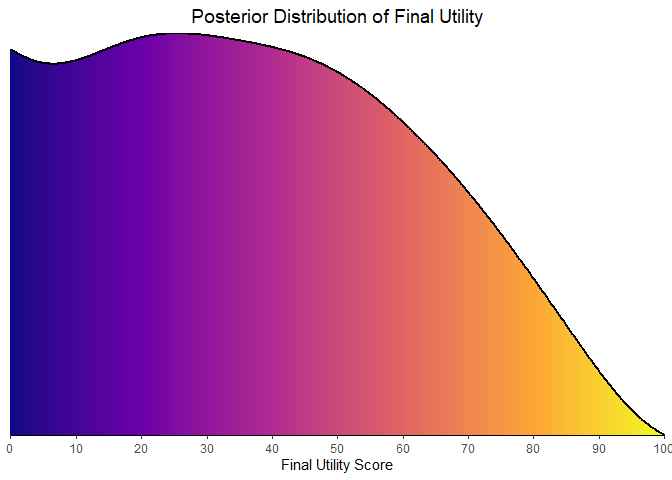
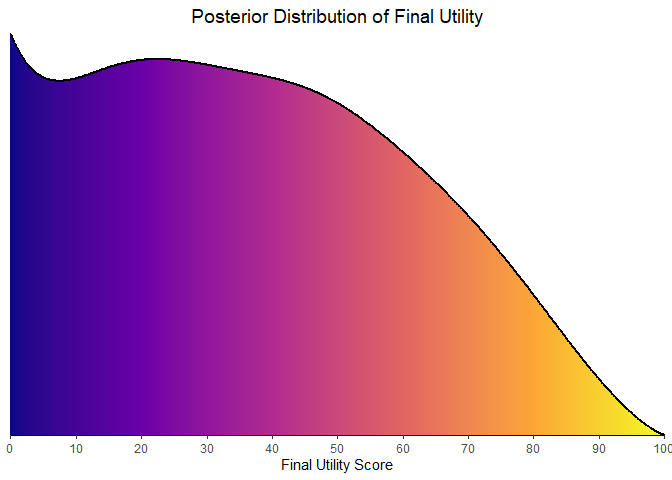
Update and improve README documentation

Changed region(s): [[0.0, 0.0625, 0.875, 0.75], [0.9062, 0.8125, 0.9688, 0.9062], [0.875, 0.75, 0.9062, 0.8125]]

diff --git a/README.md b/README.md
@@ -101,7 +101,7 @@ assume “Significant Improvement” with “Very High” evidence.
 
 ``` r
 toxicity_trial <- simulate_trial_data(
-n_control = 300,
+n_control = 600,
 ratio_str = "1:1",
 control_g1_4_pct = 50,
 control_g3_4_pct = 20,
@@ -110,6 +110,11 @@ qol_scenario = 1,
 qol_strength = 5
 )
 ```
+
+To analyze toxicity in *non-simulated data*, you obviously need to go to
+the actual toxicity table, look up the quality-of-life articles
+associated with that trial, and manually fill in an object similar to
+the one produced by the simulate_trial_data function.
 
 Visualize toxicity with AMIT plots:
 
@@ -159,8 +164,8 @@ chains = 4
     ## 
     ## SAMPLING FOR MODEL 'anon_model' NOW (CHAIN 1).
     ## Chain 1: 
-    ## Chain 1: Gradient evaluation took 0.000281 seconds
-    ## Chain 1: 1000 transitions using 10 leapfrog steps per transition would take 2.81 seconds.
+    ## Chain 1: Gradient evaluation took 0.000376 seconds
+    ## Chain 1: 1000 transitions using 10 leapfrog steps per transition would take 3.76 seconds.
     ## Chain 1: Adjust your expectations accordingly!
     ## Chain 1: 
     ## Chain 1: 
@@ -177,15 +182,15 @@ chains = 4
     ## Chain 1: Iteration: 2250 / 2500 [ 90%]  (Sampling)
     ## Chain 1: Iteration: 2500 / 2500 [100%]  (Sampling)
     ## Chain 1: 
-    ## Chain 1:  Elapsed Time: 6.673 seconds (Warm-up)
-    ## Chain 1:                10.262 seconds (Sampling)
-    ## Chain 1:                16.935 seconds (Total)
+    ## Chain 1:  Elapsed Time: 7.779 seconds (Warm-up)
+    ## Chain 1:                11.936 seconds (Sampling)
+    ## Chain 1:                19.715 seconds (Total)
     ## Chain 1: 
     ## 
     ## SAMPLING FOR MODEL 'anon_model' NOW (CHAIN 2).
     ## Chain 2: 
-    ## Chain 2: Gradient evaluation took 0.000237 seconds
-    ## Chain 2: 1000 transitions using 10 leapfrog steps per transition would take 2.37 seconds.
+    ## Chain 2: Gradient evaluation took 0.000445 seconds
+    ## Chain 2: 1000 transitions using 10 leapfrog steps per transition would take 4.45 seconds.
     ## Chain 2: Adjust your expectations accordingly!
     ## Chain 2: 
     ## Chain 2: 
@@ -202,15 +207,15 @@ chains = 4
     ## Chain 2: Iteration: 2250 / 2500 [ 90%]  (Sampling)
     ## Chain 2: Iteration: 2500 / 2500 [100%]  (Sampling)
     ## Chain 2: 
-    ## Chain 2:  Elapsed Time: 6.276 seconds (Warm-up)
-    ## Chain 2:                8.299 seconds (Sampling)
-    ## Chain 2:                14.575 seconds (Total)
+    ## Chain 2:  Elapsed Time: 23.593 seconds (Warm-up)
+    ## Chain 2:                24.911 seconds (Sampling)
+    ## Chain 2:                48.504 seconds (Total)
     ## Chain 2: 
     ## 
     ## SAMPLING FOR MODEL 'anon_model' NOW (CHAIN 3).
     ## Chain 3: 
-    ## Chain 3: Gradient evaluation took 0.000357 seconds
-    ## Chain 3: 1000 transitions using 10 leapfrog steps per transition would take 3.57 seconds.
+    ## Chain 3: Gradient evaluation took 0.000356 seconds
+    ## Chain 3: 1000 transitions using 10 leapfrog steps per transition would take 3.56 seconds.
     ## Chain 3: Adjust your expectations accordingly!
     ## Chain 3: 
     ## Chain 3: 
@@ -227,15 +232,15 @@ chains = 4
     ## Chain 3: Iteration: 2250 / 2500 [ 90%]  (Sampling)
     ## Chain 3: Iteration: 2500 / 2500 [100%]  (Sampling)
     ## Chain 3: 
-    ## Chain 3:  Elapsed Time: 7.018 seconds (Warm-up)
-    ## Chain 3:                12.331 seconds (Sampling)
-    ## Chain 3:                19.349 seconds (Total)
+    ## Chain 3:  Elapsed Time: 8.197 seconds (Warm-up)
+    ## Chain 3:                13.795 seconds (Sampling)
+    ## Chain 3:                21.992 seconds (Total)
     ## Chain 3: 
     ## 
     ## SAMPLING FOR MODEL 'anon_model' NOW (CHAIN 4).
     ## Chain 4: 
-    ## Chain 4: Gradient evaluation took 0.000265 seconds
-    ## Chain 4: 1000 transitions using 10 leapfrog steps per transition would take 2.65 seconds.
+    ## Chain 4: Gradient evaluation took 0.000348 seconds
+    ## Chain 4: 1000 transitions using 10 leapfrog steps per transition would take 3.48 seconds.
     ## Chain 4: Adjust your expectations accordingly!
     ## Chain 4: 
     ## Chain 4: 
@@ -252,9 +257,9 @@ chains = 4
     ## Chain 4: Iteration: 2250 / 2500 [ 90%]  (Sampling)
     ## Chain 4: Iteration: 2500 / 2500 [100%]  (Sampling)
     ## Chain 4: 
-    ## Chain 4:  Elapsed Time: 6.527 seconds (Warm-up)
-    ## Chain 4:                9.491 seconds (Sampling)
-    ## Chain 4:                16.018 seconds (Total)
+    ## Chain 4:  Elapsed Time: 8.029 seconds (Warm-up)
+    ## Chain 4:                39.511 seconds (Sampling)
+    ## Chain 4:                47.54 seconds (Total)
     ## Chain 4:
 
 ### Step 5: Analyze and visualize model results
@@ -282,7 +287,7 @@ print(bayesian_fit$stan_fit, pars = c("beta_cure_arm", "beta_surv_arm", "alpha")
     ## beta_surv_arm 0.11       0 0.09 -0.06 0.05 0.11 0.17  0.28  2637    1
     ## alpha         1.26       0 0.06  1.16 1.22 1.26 1.30  1.37  3785    1
     ## 
-    ## Samples were drawn using NUTS(diag_e) at Thu Jul 31 22:14:39 2025.
+    ## Samples were drawn using NUTS(diag_e) at Fri Aug  1 00:32:18 2025.
     ## For each parameter, n_eff is a crude measure of effective sample size,
     ## and Rhat is the potential scale reduction factor on split chains (at 
     ## convergence, Rhat=1).
@@ -299,6 +304,35 @@ outcomes(bayesian_fit)
     ## 3 Long-Term Survival Rate (%) - Control      24.07 (19.43 - 29.45)
     ## 4 Long-Term Survival Rate (%) - Experimental 28.67 (23.65 - 34.08)
     ## 5 Absolute Difference in Survival Rate (%)   4.61 (-2.78 - 11.51)
+
+## ⚠ A Note on Model Identifiability
+
+Users should be aware of an inherent characteristic of **mixture cure
+models**, especially when working with clinical trials that have smaller
+sample sizes (*low n*).
+
+These models explain a survival benefit by attributing it to two main
+components:
+
+- An increase in the **cure fraction** (long-term survivors), and  
+- An improvement in the **Time Ratio** (survival among non-cured
+  patients).
+
+With limited data, it can be difficult for the model to fully
+distinguish between these two effects.  
+This can lead to a kind of *trade-off*, where the model might compensate
+a weakly identified cure effect by **overestimating the Time Ratio**, or
+vice versa.
+
+As a result, you may sometimes see “weird” or unintuitive combinations —
+for example, a very strong TR and almost no difference in cure, or the
+opposite.
+
+**Therefore, it is crucial to inspect both parameters and their credible
+intervals** to properly interpret the overall treatment effect.
+
+Don’t rely on a single number. Read the model like a clinician:  
+look at the whole picture.
 
 **Posterior distributions**
 
@@ -356,6 +390,9 @@ where the function returns these scores:
 toxicity_output$wts_scores
 ```
 
+    ##   Experimental Control
+    ## 1        3.009  1.9695
+
 **1. What are the WTS (Weighted Toxicity Scores)?**
 
 Think of the WTS as a *total harm score* for each arm of the trial. It’s
@@ -368,12 +405,11 @@ where:
   are weighted more heavily than less critical ones (e.g., skin
   disorders).
 
-In our example, the experimental drug accumulated a total *harm score*
-of **2.7495**, while the standard control drug had a score of
-**1.877**.  
-This gives us a clear, initial indication that the new drug is more
-toxic than the control.  
-But is it *too* toxic? That’s where the next parameter comes in.
+In our example, let’s say the experimental arm ended up with a harm
+score of 2.7495, versus 1.877 for control. (Truth be told, these numbers
+dance around a little — it’s a simulation — but you get the idea.) What
+matters is the pattern: the experimental drug is clearly more toxic. The
+real question is: how much more is too much?
 
 ------------------------------------------------------------------------
 
@@ -452,22 +488,39 @@ generate_qol_vector(), which interactively generates a quality‑of‑life
 
 ### Step 8: Extract posterior samples and compute BayeScores
 
-Okay, we have everything: efficacy, toxicity, QoL. It’s time to extract
-posterior samples and compute BayeScores.
+# From Clinical Data to a Final Score
 
-To obtain utility, a cumulative logistic function is used, anchored by
-the minimum clinically relevant benefit values, which we—two
-oncologists—have agreed upon as the time ratio of 1.15 (e.g., extending
-OS from 10 to 11.5 months) or a long‑term survival increase of 4 %.
+Okay, we have the results from our Bayesian model:  
+estimates for efficacy, toxicity, and QoL.  
+But how do we turn these numbers into a single, intuitive **BayeScore**?
 
-Inspired by multi‑attribute utility theory (MAUT), we have also chosen
-the thresholds at which drugs become not only active but promising: a
-time ratio of 1.35 and a survival‑rate difference of 12 %.
+This is where the *calibration* comes in.
 
-Now, look at the output. To derive final utilities, an adaptive policy
-is applied: the function has detected that this clinical trial increases
-the long‑term survivor rate and has adjusted the weighting scores
-relative to the predefined ones (see technical specification).
+------------------------------------------------------------------------
+
+Instead of using fixed rules, our model translates each clinical outcome
+into a  
+**utility score** (from 0 to 100) using a flexible exponential utility
+function.
+
+Think of it this way:  
+the *first* improvements are the most exciting.  
+Going from no benefit to *some* benefit is a huge leap.  
+Further gains are still good, but the “wow factor” diminishes slightly.
+
+Our function captures this key principle of **diminishing marginal
+utility**.
+
+------------------------------------------------------------------------
+
+The best part is: *you define the value judgment*.  
+The shape of these utility curves is determined by setting simple
+**anchor points**.  
+You answer the question:
+
+> “How much is a certain clinical benefit worth on a 0–100 scale?”
+
+For example, in our analysis, we used the following calibration:
 
 ``` r
 efficacy_inputs <- list(
@@ -510,15 +563,15 @@ print(final_utilities$component_summary)
     ## Utility Cure (0-100)                     Utility Cure (0-100)  27.37536
     ## Efficacy Score (Combined)           Efficacy Score (Combined)  47.99946
     ## QoL Contribution (points)           QoL Contribution (points)  12.12045
-    ## Toxicity Contribution (points) Toxicity Contribution (points) -19.72996
-    ## FINAL UTILITY SCORE                       FINAL UTILITY SCORE  36.85705
+    ## Toxicity Contribution (points) Toxicity Contribution (points) -20.62685
+    ## FINAL UTILITY SCORE                       FINAL UTILITY SCORE  35.95623
     ##                                Lower_95_CrI.2.5% Upper_95_CrI.97.5%
-    ## Utility TR (0-100)                      0.000000          59.568890
-    ## Utility Cure (0-100)                    0.000000          54.958276
-    ## Efficacy Score (Combined)               9.341862          74.593677
-    ## QoL Contribution (points)             -23.946715          24.981138
-    ## Toxicity Contribution (points)        -24.974410          -4.891113
-    ## FINAL UTILITY SCORE                     1.107186          82.657790
+    ## Utility TR (0-100)                     0.0000000          59.568890
+    ## Utility Cure (0-100)                   0.0000000          54.958276
+    ## Efficacy Score (Combined)              9.3418622          74.593677
+    ## QoL Contribution (points)            -23.9467155          24.981138
+    ## Toxicity Contribution (points)       -24.9763717          -5.158959
+    ## FINAL UTILITY SCORE                    0.9792256          82.235288
 
 ### Step 9: Visualize final clinical benefit
 
